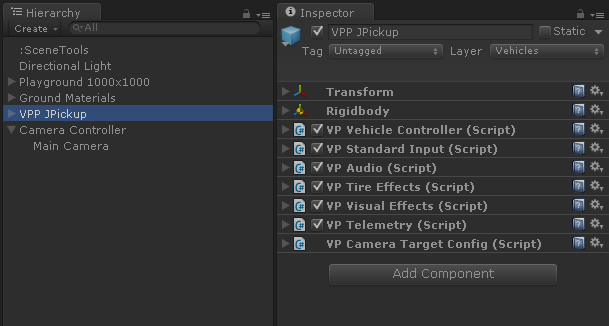
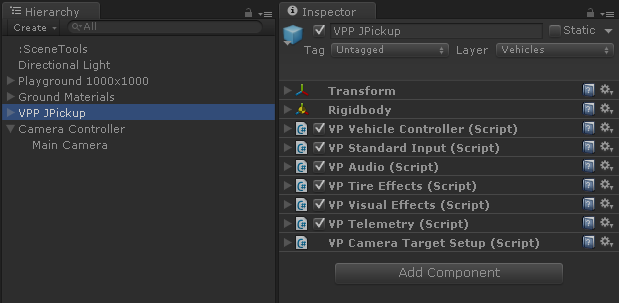
VPCameraTargetConfig refactored to VPCameraTargetSetup

diff --git a/docs/components/camera.md b/docs/components/camera.md
@@ -12,7 +12,7 @@ Mode
 
 Target
 :	Transform the camera movement will use / follow / rotate around / etc.
-	If the target GameObject contains a [VPCameraTargetConfig](#vpcameratargetconfig) component,
+	If the target GameObject contains a [VPCameraTargetSetup](#vpcameratargetsetup) component,
 	then some parameters of each mode may be loaded from it.
 
 Change Camera Key
@@ -29,7 +29,7 @@ Hot Key
 
 Attach target
 :	Target transform the camera will be attached to.
-	Filled with `VPCameraTargetConfig.attachToPoint` if Target contains a [VPCameraTargetConfig](#vpcameratargetconfig)
+	Filled with `VPCameraTargetSetup.attachToPoint` if Target contains a [VPCameraTargetSetup](#vpcameratargetsetup)
 	component.
 
 #### Smooth Follow
@@ -43,12 +43,12 @@ Hot Key
 :	Hot key for selecting this mode, or `KeyCode.None` for no key.
 
 Distance
-:	Horizontal distance to the target. Filled with `VPCameraTargetConfig.viewDistance` if Target
-	contains a [VPCameraTargetConfig](#vpcameratargetconfig) component.
+:	Horizontal distance to the target. Filled with `VPCameraTargetSetup.viewDistance` if Target
+	contains a [VPCameraTargetSetup](#vpcameratargetsetup) component.
 
 Height
-:	Vertical elevation to look at the target from. Filled with `VPCameraTargetConfig.viewHeigh` if
-	Target contains a [VPCameraTargetConfig](#vpcameratargetconfig) component.
+:	Vertical elevation to look at the target from. Filled with `VPCameraTargetSetup.viewHeigh` if
+	Target contains a [VPCameraTargetSetup](#vpcameratargetsetup) component.
 
 Height Multiplier
 :	Height is multiplied by this value and applied to the position. Useful when Height is filled
@@ -59,8 +59,8 @@ Height Damping
 :	How fast the camera position responds to changes in elevation.
 
 Rotation Damping
-:	How fast the camera responds to orientation changes. Filled with `VPCameraTargetConfig.viewDamping`
-	if Target contains a [VPCameraTargetConfig](#vpcameratargetconfig) component.
+:	How fast the camera responds to orientation changes. Filled with `VPCameraTargetSetup.viewDamping`
+	if Target contains a [VPCameraTargetSetup](#vpcameratargetsetup) component.
 
 Follow Velocity
 :	If checked the camera follows the direction of the velocity. Otherwise, it always follows the
@@ -79,8 +79,8 @@ Hot Key
 :	Hot key for selecting this mode, or `KeyCode.None` for no key.
 
 Distance
-:	Horizontal distance to the target. Filled with `VPCameraTargetConfig.viewDistance` if Target
-	contains a [VPCameraTargetConfig](#vpcameratargetconfig) component.
+:	Horizontal distance to the target. Filled with `VPCameraTargetSetup.viewDistance` if Target
+	contains a [VPCameraTargetSetup](#vpcameratargetsetup) component.
 
 Min Vertical Angle, Max Vertical Angle
 :	Allowed angle range of vertical movement.
@@ -95,8 +95,8 @@ Orbit Damping
 :	How fast the camera responds to orbit movement.
 
 Min Distance, MaxDistance
-:	Allowed distance range to the target. _minDistance_ is filled with `VPCameraTargetConfig.viewDistance`
-	if Target contains a [VPCameraTargetConfig](#vpcameratargetconfig) component.
+:	Allowed distance range to the target. _minDistance_ is filled with `VPCameraTargetSetup.viewDistance`
+	if Target contains a [VPCameraTargetSetup](#vpcameratargetsetup) component.
 
 Distance Speed
 :	Speed of change of the distance to the target.
@@ -163,12 +163,12 @@ Sideways Axis
 Vertical Axis
 :	Axis name for vertical movement.
 
-# VPCameraTargetConfig
+# VPCameraTargetSetup
 
 Add this component to a vehicle for configuring the camera when the vehicle is selected as Target
 in the camera controller [VPCameraController](#vpcameracontroller).
 
-![VP Camera Target Config Inspector](/img/components/vpp-camera-target-config-inspector.png){: .img-medium .clickview }
+![VP Camera Target Setup](/img/components/vpp-camera-target-setup.png){: .img-medium .clickview }
 
 Look At Point
 :	Transform the camera will point at when this vehicle is selected as Target. Use the Center Of

diff --git a/docs/user-guide/getting-started.md b/docs/user-guide/getting-started.md
@@ -106,7 +106,7 @@ features:
 :	Displays a overlay window with detailed numeric data on the wheels and the vehicle. Toggle with
 	the <kbd>B</kbd> key.
 
-[VP Camera Target Config](/components/camera#vpcameratargetconfig)
+[VP Camera Target Setup](/components/camera#vpcameratargetsetup)
 
 :	Configures the parameters for this vehicle to be properly pointed at with the [Camera](/components/camera)
 	component, such as minimum distance, view height, and more.
